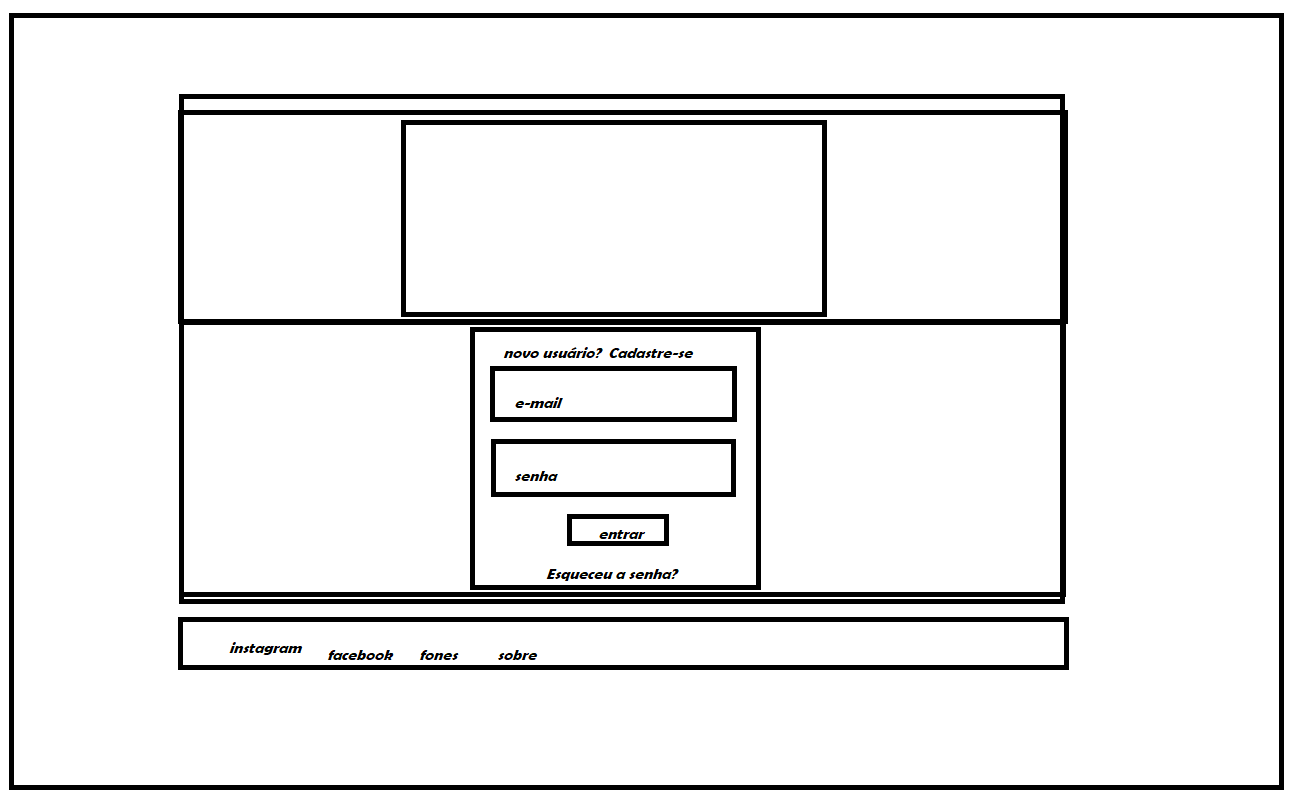
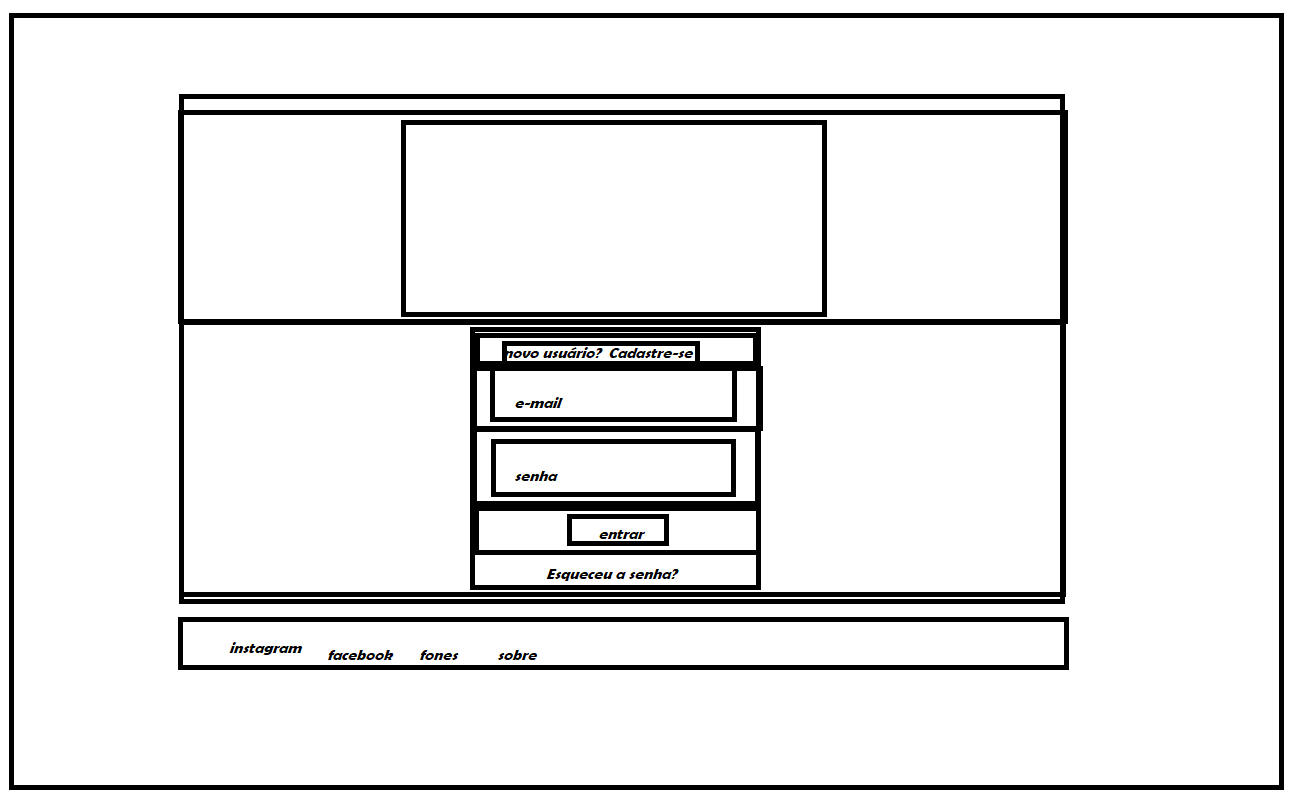
Working a HTML and CSS

diff --git a/barber-login.html b/barber-login.html
@@ -10,47 +10,43 @@
     </head>
     <body>
         <section id="theSection">
-            <main role="main" style="min-height: 850px;">
+            <main role="main">
                 <article id="theArticle">
                     <div class="divPhoto">
-                        <div class="boxPhoto">
-                            <img src="imagens/Icone-Titulo/android-chrome-512x512.png" alt="Logo Barber Shop">
-                        </div>
+                            <img src="imagens/Icone-Titulo/android-chrome-512x512.png" alt="Logo Barber Shop" class="imgBarber">
                     </div>
                     <div class="divForm">
-                        <div class="boxForm">
                             <form id="loginForm" method="post">
-                                <div class="boxRegister">
-                                    <div class="box_P_Register">
-                                        <p class="PGraphRegister"> Novo usuário?
-                                            <a class="register">Cadastre-se</a>
-                                        </p>
+                                <div class="boxForm">
+                                    <div class="boxRegister">
+                                            <p class="PGraphRegister"> Novo usuário?
+                                                <a class="register">Cadastre-se</a>
+                                            </p>
                                     </div>
-                                </div>
-                                <div class="boxLabel">
-                                    <div class="label_adjust">
-                                        <label class="labelUser">
-                                            <span class="spanUser">E-mail</span>
-                                            <input type="email" name="email" class="User" autocomplete="on" maxlength="75">
-                                        </label>
+                                    <div class="boxLabel">
+                                        <div class="label_adjust">
+                                            <label class="labelUser">
+                                                <span class="spanUser">E-mail</span>
+                                                <input type="email" name="email" class="User" autocomplete="on" maxlength="75">
+                                            </label>
+                                        </div>
                                     </div>
-                                </div>
-                                <div class="boxLabel">
-                                    <div class="label_adjust">
-                                        <label class="labelUser">
-                                            <span class="spanUser">Senha</span>
-                                            <input type="password" name="pass" class="User" maxlength="14">
-                                        </label>
+                                    <div class="boxLabel">
+                                        <div class="label_adjust">
+                                            <label class="labelUser">
+                                                <span class="spanUser">Senha</span>
+                                                <input type="password" name="pass" class="User" maxlength="14">
+                                            </label>
+                                        </div>
                                     </div>
-                                </div>
-                                <div class="boxButton">
-                                    <button type="submit" class="buttonEntrar">
-                                        <span class="spanEntrar">Entrar</span>
-                                    </button>
+                                    <div class="boxButton">
+                                        <button type="submit" class="buttonEntrar">
+                                            <span class="spanEntrar">Entrar</span>
+                                        </button>
+                                    </div>
                                 </div>
                                 <a class="notPass">Esqueceu a senha?</a>
                             </form>
-                        </div>
                     </div>
                 </article>
             </main>

diff --git a/style-barber.css b/style-barber.css
@@ -5,6 +5,8 @@ html {
 }
 
 body {
+	color: #fff;
+	background: #080808;
     margin: 0;
 	padding: 0;
 	border: 0;
@@ -16,4 +18,78 @@ body {
 
 head {
     display: none;
+}
+
+main {
+	min-height: 800px;
+	flex-wrap: wrap;
+}
+
+/* Section Config */
+
+#theSection {
+	display: flex;
+	flex-flow: wrap column;
+	align-items: center;
+	min-height: 100%;
+	overflow: hidden;
+}
+
+/* article */
+
+#theArticle {
+	display: flex;
+	flex-direction: column;
+	align-items: center;
+	flex-grow: 1;
+	padding-bottom: 25px;
+	height: 800px;
+	box-sizing: border-box;
+	
+}
+
+/* div foto */
+
+.divPhoto {
+	width: 650px;
+	height: 425px;
+	box-sizing: border-box;
+}
+
+.imgBarber {
+	position: relative;
+	top: -60px;
+	width: 650px;
+	height: 590px;
+	z-index: 0;
+}
+
+/* div formulário */
+
+.divForm {
+	position: relative;
+	color: rgb(121, 144, 152);
+	background-color: #040404;
+	border: 2px solid #101010;
+	border-radius: 8px;
+	width: 100%;
+	max-width: 325px;
+	flex-grow: 1;
+	margin-bottom: 20px;
+	align-items: center;
+}
+
+#loginForm {
+	display: flex;
+	flex-direction: column;
+}
+
+.boxForm {
+	margin-top: 15px;
+	-webkit-box-flex: 0;
+	flex: 0 0 auto;
+	justify-content: flex-start;
+	-webkit-box-pack: start;
+	align-content: stretch;
+	align-items: stretch;
 }
